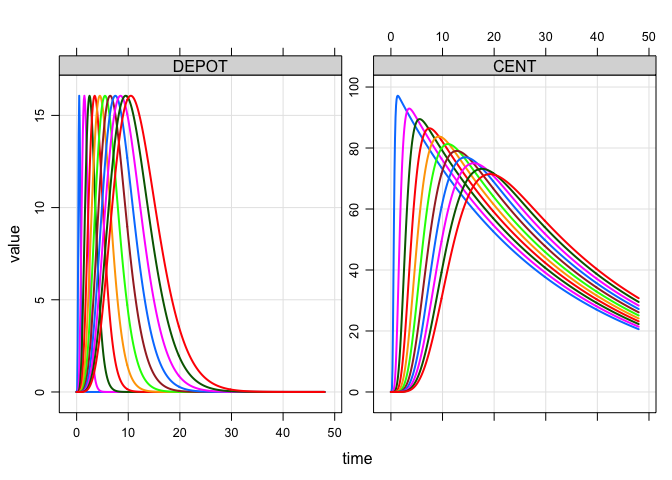
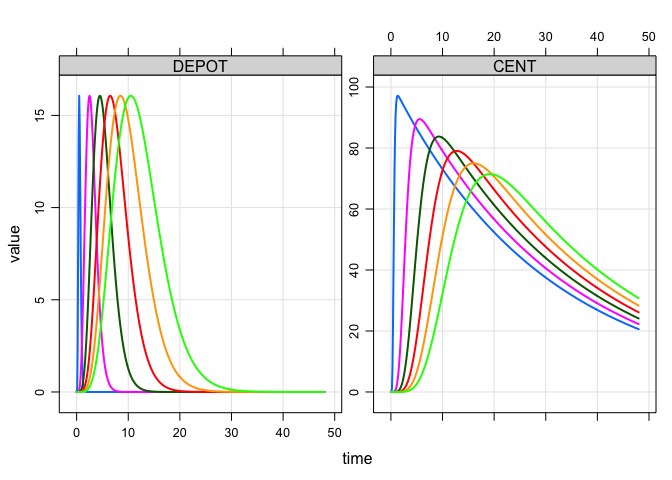
tweak doc

Changed region(s): [[0.0938, 0.1875, 0.4688, 0.8438], [0.5625, 0.2188, 0.9688, 0.8438]]

diff --git a/absorption/transit.md b/absorption/transit.md
@@ -77,7 +77,7 @@ mrgsim(mod, ev(amt = 100)) %>% plot()
 ## Sensitivity analysis on MTT
 
 ``` r
-idata <- tibble(MTT = seq(0.5, 10.5, 1))
+idata <- tibble(MTT = seq(0.5, 10.5, 2))
 
 mrgsim(mod, events = ev(amt = 100), idata = idata) %>% plot()
 ```
@@ -87,7 +87,7 @@ mrgsim(mod, events = ev(amt = 100), idata = idata) %>% plot()
 ## Sensitivity analysis on NN
 
 ``` r
-idata <- tibble(NN = seq(1,20,1))
+idata <- tibble(NN = seq(1,21,2))
 
 mrgsim(mod, events = ev(amt = 100), idata = idata) %>% plot()
 ```
